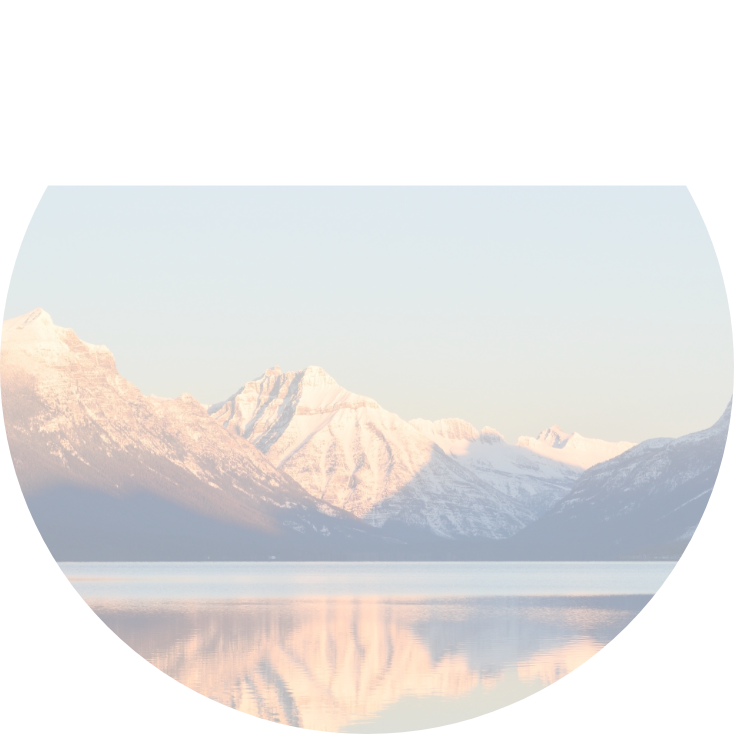
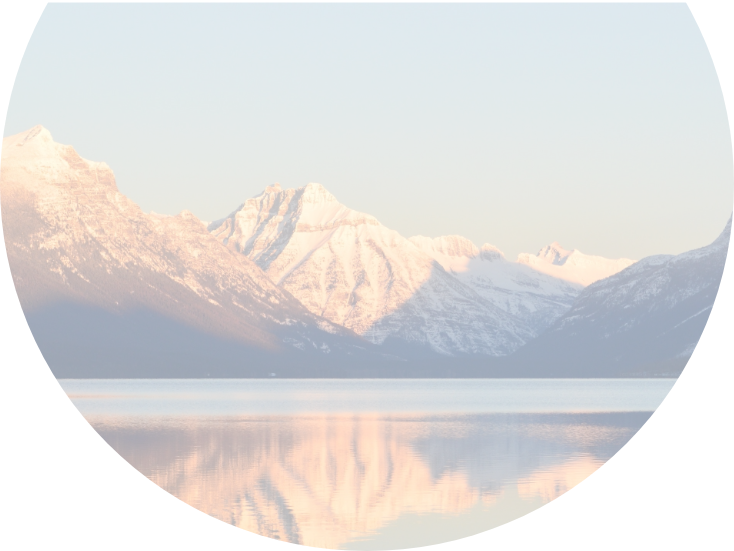
login page updated

diff --git a/client/src/app/layouts/no-auth/no-auth.component.scss b/client/src/app/layouts/no-auth/no-auth.component.scss
@@ -1,3 +1,7 @@
+$image-width: 300px;
+$image-width-425: 400px;
+$image-height: 300px;
+
 .no-auth-layout {
     background-color: #F6F8FA;
 	display: grid;
@@ -10,6 +14,28 @@
 		align-self: center;
 		justify-self: center;
 		padding: 25px;
+		position: relative;
+		
+		.mobile-bg {
+			width: $image-width;
+			position: fixed;
+			top: 0;
+			right: -8rem;
+
+			.circle {
+				position: fixed;
+				top: -7rem;
+				right: -2rem;
+				width: $image-width;
+				height: $image-height;
+				background-color: rgba(255, 162, 90, .1);
+				border-radius: 50%;
+			}
+
+			img {
+				width: 100%;
+			}
+		}
 
 		h1 {
 			font-family: 'Raleway', sans-serif;
@@ -78,9 +104,28 @@
 	}
 }
 
+@media (min-width: 425px) {
+	.no-auth-layout {
+		.left {
+			.mobile-bg {
+				width: $image-width-425;
+
+				.circle {
+					width: $image-width-425;
+				}
+			}
+		}
+	}
+}
+
 @media (min-width: 768px) {
 	.no-auth-layout {
 		grid-template-columns: 1fr 1fr;
+		.left {
+			.mobile-bg {
+				display: none;
+			}
+		}
 		.right {
 			display: inherit;
 		}

diff --git a/client/src/app/layouts/no-auth/no-auth.component.html b/client/src/app/layouts/no-auth/no-auth.component.html
@@ -3,6 +3,10 @@
 
 <div class="no-auth-layout">
     <div class="left">
+        <div class="mobile-bg">
+            <div class="circle"></div>
+            <img [src]="image" alt="Mountains">
+        </div>
         <h1>Everest</h1>
         <p>Free academic resoures curated by the community
             for the community

diff --git a/client/src/app/layouts/no-auth/no-auth.component.ts b/client/src/app/layouts/no-auth/no-auth.component.ts
@@ -8,6 +8,9 @@ import { Component, OnInit } from '@angular/core';
 export class NoAuthComponent implements OnInit {
 
   isLoading = false;
+
+  // Bg image
+  image = '../../../../assets/mountains-circle-transparent.png';
   constructor() { }
 
   ngOnInit() {
